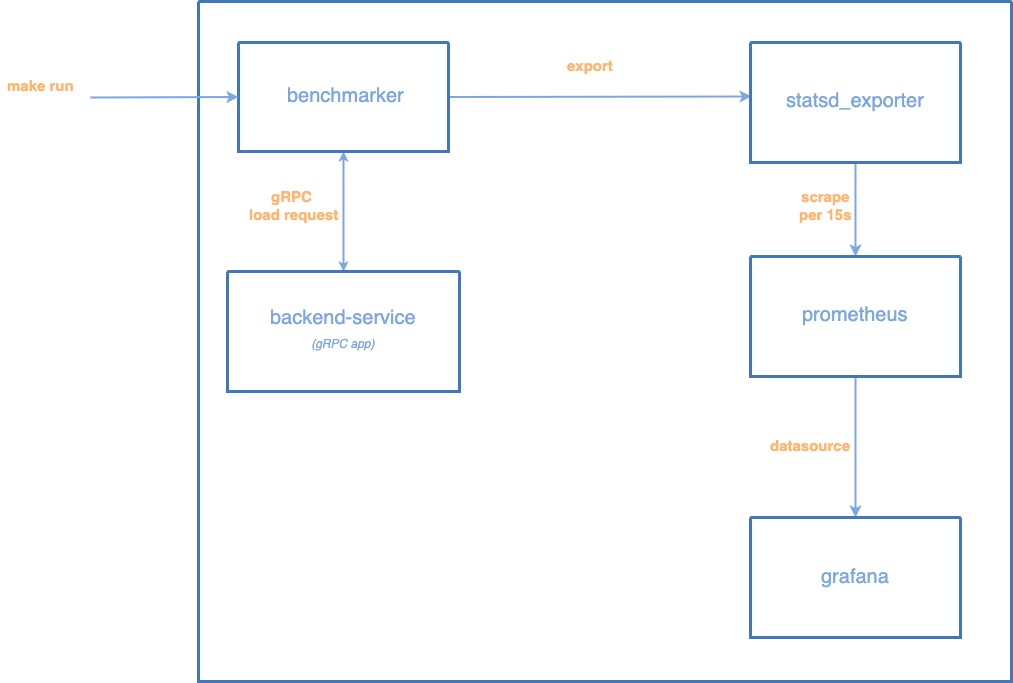
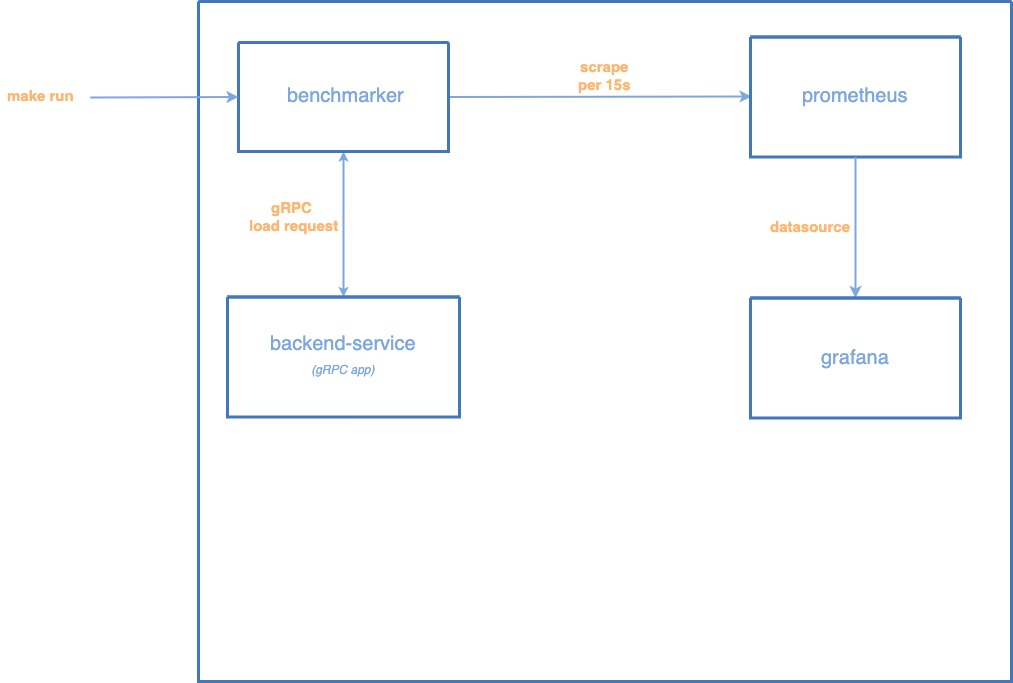
use prometheus cliennt
and drop statsd_exporter instead

because it is redundant and simply using client is enough

diff --git a/benchmark-grpc/benchmark-service/main.go b/benchmark-grpc/benchmark-service/main.go
@@ -2,9 +2,13 @@ package main
 
 import (
 	"context"
+	"fmt"
 	"github.com/bojand/ghz/printer"
 	"github.com/bojand/ghz/runner"
 	backend_service "github.com/kenju/service-mesh-patterns/benchmark-grpc/benchmark-service/backend/services/v1"
+	"github.com/prometheus/client_golang/prometheus"
+	"github.com/prometheus/client_golang/prometheus/promauto"
+	"github.com/prometheus/client_golang/prometheus/promhttp"
 	"google.golang.org/grpc"
 	"io"
 	"log"
@@ -17,6 +21,14 @@ import (
 const (
 	defaultAddr = ":8001"
 	defaultLoadTestTargetAddr = "127.0.0.1:8080"
+	prometheusPrefix = "benchmark_server"
+)
+
+var (
+	counter = promauto.NewCounter(prometheus.CounterOpts{
+		Name: fmt.Sprintf("%s_counter", prometheusPrefix),
+		Help: "sample metrics for counter",
+	})
 )
 
 func main() {
@@ -24,12 +36,23 @@ func main() {
 
 	log.Printf("starting benchmarker at %s...\n", port)
 
-	http.HandleFunc("/", handler)
+	recordMetrics()
 
-	if err := http.ListenAndServe(port, nil); err != nil {
+	mux := http.NewServeMux()
+	mux.Handle("/metrics", promhttp.Handler())
+	mux.HandleFunc("/start", handler)
+
+	if err := http.ListenAndServe(port, mux); err != nil {
 		panic(err)
 	}
 
+}
+
+func recordMetrics() {
+	go func() {
+		counter.Inc()
+		time.Sleep(5 * time.Second)
+	}()
 }
 
 //--------------------------------

diff --git a/benchmark-grpc/README.md b/benchmark-grpc/README.md
@@ -69,9 +69,3 @@ Open http://localhost:9090
 Open http://localhost:3000
 
 > See docker-compose.yaml
-
-## statsd_exporter 
-
-Open http://localhost:9102
-
-> See https://github.com/prometheus/statsd_exporter
